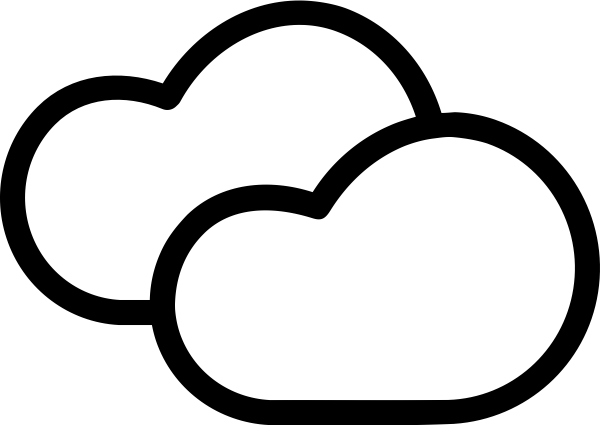
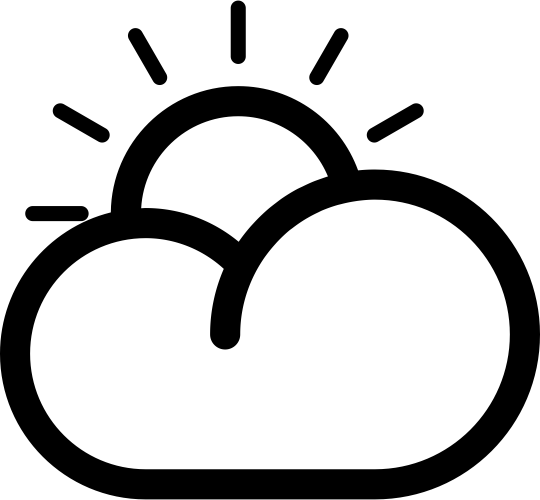
clock working

Changed region(s): [[0.0, 0.0, 1.0, 1.0], [0.8593, 0.8871, 0.9185, 0.9482], [0.9481, 0.7953, 0.9778, 0.8565]]

diff --git a/main.py b/main.py
@@ -3,9 +3,8 @@
 from PyQt4 import QtCore, QtGui
 from PyQt4.QtCore import Qt
 import sys
-import pywapi
+import pyowm
 import datetime
-import math
 
 
 class ClockandWeather(QtGui.QWidget):
@@ -19,10 +18,12 @@ class ClockandWeather(QtGui.QWidget):
     global picWidth, picHeight, lastmin
     picWidth = 128
     picHeight = 128
+    lastmin = -1
 
     def __init__(self, parent=None):
         QtGui.QWidget.__init__(self)
         super(ClockandWeather, self).__init__(parent)
+
         # --------------------------------Clock Portion-----------------------------------------
         # Intitialze and set Frame that surrounds clock
         self.clockFrame = QtGui.QFrame(self)
@@ -39,38 +40,49 @@ class ClockandWeather(QtGui.QWidget):
         self.hourHand.setAlignment(QtCore.Qt.AlignCenter)
         self.minHand.setAlignment(QtCore.Qt.AlignCenter)
         self.secHand.setAlignment(QtCore.Qt.AlignCenter)
+        self.hourHand.setStyleSheet("background-color: transparent")
+        self.minHand.setStyleSheet("background-color: transparent")
+        self.secHand.setStyleSheet("background-color: transparent")
 
         # Initialize clock timer
         timer = QtCore.QTimer(self)
         timer.timeout.connect(self.tick)
         timer.start(1000)
 
+        # initialize pixmap
+        self.secPixMap = QtGui.QPixmap("")
+        self.minPixMap = QtGui.QPixmap("")
+        self.hourPixMap = QtGui.QPixmap("")
+
         # ------------------------------------------------Weather Portion----------------------------------------
-        self.pix = QtGui.QPixmap("")
-        self.pic = QtGui.QLabel(self)
-        self.temp = QtGui.QLabel(self)
-        self.hum = QtGui.QLabel(self)
-        self.initUI()
+        self.weatherFrame = QtGui.QFrame(self)
+        self.weatherFrame.move(500, 0)
+        self.weatherPixMap = QtGui.QPixmap("")
+        self.weatherIcon = QtGui.QLabel(self.weatherFrame)
+        self.temp = QtGui.QLabel(self.weatherFrame)
+        self.weatherDescrip = QtGui.QLabel(self.weatherFrame)
+        self.highLowFrame = QtGui.QFrame(self)
+        self.high = QtGui.QLabel(self.highLowFrame)
+        self.low = QtGui.QLabel(self.highLowFrame)
 
-    def initUI(self):
-        self.pic.move(90, 110)
-        self.pic.resize(picWidth, picHeight)
-        self.pic.setPixmap(self.pix)
+        # setting up grid layout fo weather frame
+        self.grid = QtGui.QGridLayout(self.weatherFrame)
+        self.grid.addWidget(self.weatherIcon, 0, 0)
+        self.grid.addWidget(self.temp, 0, 1, QtCore.Qt.AlignLeft)
+        self.grid.addWidget(self.weatherDescrip, 1, 0, QtCore.Qt.AlignCenter)
+        self.grid.addWidget(self.highLowFrame, 1, 1)
 
-        self.temp.move(250, 160)
-        self.temp.resize(150, 100)
-        self.temp.setStyleSheet("font-size:50px; font-color: #FFFFFF;")
-
-        self.hum.move(410, 160)
-        self.hum.resize(250, 100)
-        self.hum.setStyleSheet("font-size:50px;")
+        # setting up High, Low
+        self.highLowGrid = QtGui.QGridLayout(self.highLowFrame)
+        self.highLowGrid.addWidget(self.high, 0, 0, QtCore.Qt.AlignLeft)
+        self.highLowGrid.addWidget(self.low, 0, 1, QtCore.Qt.AlignRight)
 
         self.Src()
 
         # ---------Window settings --------------------------------
         self.setGeometry(300, 300, 750, 500)
-        self.setFixedSize(760, 520)
-        self.setWindowFlags(Qt.FramelessWindowHint)
+        self.showFullScreen()
+        # self.setWindowFlags(Qt.FramelessWindowHint)
         self.setStyleSheet("background-color: ")
         self.show()
 
@@ -83,85 +95,106 @@ class ClockandWeather(QtGui.QWidget):
 
         # Rotate from initial image to avoid cumulative deformation from
         # transformation
+        # --------second hand
         self.secPixMap = QtGui.QPixmap("icons/clockFaceGrid.png")
         self.secPixMap = self.secPixMap.scaled(float(self.clockFrame.width()) * 0.6,
                                                float(self.clockFrame.height()) * 0.6, Qt.KeepAspectRatio)
         secHandDim = (self.secPixMap.width() ** 2 + self.secPixMap.height() ** 2) ** 0.5
-        self.secHand.setGeometry(self.clockFrame.width() / 2 - secHandDim / 2, self.clockFrame.height() / 2 - secHandDim / 2, secHandDim,
+        self.secHand.setGeometry(self.clockFrame.width() / 2 - secHandDim / 2,
+                                 self.clockFrame.height() / 2 - secHandDim / 2, secHandDim,
                                  secHandDim)
         self.angle = now.second * 6
         transform = QtGui.QTransform().rotate(self.angle)
         self.secPixMap = self.secPixMap.transformed(transform, QtCore.Qt.SmoothTransformation)
 
         # ---- update label ----
-
         self.secHand.setPixmap(self.secPixMap)
 
+        if now.minute != lastmin:
+            lastmin = now.minute
+            # -------minute hand
+            self.minPixMap = QtGui.QPixmap("icons/minHand.png")
+            self.minPixMap = self.minPixMap.scaled(float(self.clockFrame.width()) * 0.6,
+                                                   float(self.clockFrame.height()) * 0.6, Qt.KeepAspectRatio)
+            minHandDim = (self.minPixMap.width() ** 2 + self.minPixMap.height() ** 2) ** 0.5
+            self.minHand.setGeometry(self.clockFrame.width() / 2 - minHandDim / 2,
+                                     self.clockFrame.height() / 2 - minHandDim / 2, minHandDim,
+                                     minHandDim)
+            self.angle = now.minute * 6
+            transform = QtGui.QTransform().rotate(self.angle)
+            self.minPixMap = self.minPixMap.transformed(transform, QtCore.Qt.SmoothTransformation)
+            self.minHand.setPixmap(self.minPixMap)
 
-
-        # self.clockFrame.show()
+            # ---------hour hand
+            self.hourPixMap = QtGui.QPixmap("icons/hourHand.png")
+            self.hourPixMap = self.hourPixMap.scaled(float(self.clockFrame.width()) * 0.6,
+                                                     float(self.clockFrame.height()) * 0.6, Qt.KeepAspectRatio)
+            hourHandDim = (self.hourPixMap.width() ** 2 + self.hourPixMap.height() ** 2) ** 0.5
+            self.hourHand.setGeometry(self.clockFrame.width() / 2 - hourHandDim / 2,
+                                      self.clockFrame.height() / 2 - hourHandDim / 2, hourHandDim,
+                                      hourHandDim)
+            self.angle = ((now.hour % 12) + now.minute / 60.0) * 30.0
+            transform = QtGui.QTransform().rotate(self.angle)
+            self.hourPixMap = self.hourPixMap.transformed(transform, QtCore.Qt.SmoothTransformation)
+            self.hourHand.setPixmap(self.hourPixMap)
 
     ##Weather
     def Src(self):
-        global text
-        global temp
-        global hum
+        global descrip
+        global tempDict
 
-        location_id = "CAXX0518"  # vancouver ID
+        descrip = "Fair"
 
-        weather_com_result = pywapi.get_weather_from_weather_com(location_id)
-        print(weather_com_result['current_conditions']['text'],
-              weather_com_result['current_conditions']['temperature'] + "°",
-              weather_com_result['current_conditions']['last_updated'],
-              weather_com_result["current_conditions"]["humidity"])
-
-        text = weather_com_result['current_conditions']['text']
-        temp = weather_com_result['current_conditions']['temperature'] + "°C"
-        hum = "☂ " + weather_com_result['current_conditions']['humidity'] + "%"
+        owm = pyowm.OWM('03a8ab2b5c706e0321e66420998f0141')
+        observation = owm.weather_at_place('Vancouver,BC')
+        w = observation.get_weather()
+        tempDict = w.get_temperature('celsius')
+        descrip = w.get_status()
 
         self.Forecast()
 
     def Forecast(self):
-        global text
+        global descrip
         global temp
         global hum
 
-        self.temp.setText(temp)
-        self.hum.setText(hum)
+        self.temp.setText(str(int(tempDict['temp'])))
+        self.high.setText(str(int(tempDict['temp_max'])))
+        self.low.setText(str(int(tempDict['temp_min'])))
+        self.weatherDescrip.setText(descrip)
 
-        self.pic.show()
+        self.weatherIcon.show()
         self.temp.show()
-        self.hum.show()
 
-        if text == "Partly Cloudy" or text == "Fair" or text == "AM Clouds / PM Sun":
-            self.pix = QtGui.QPixmap("icons/partly.png")
-            self.pix = self.pix.scaled(picWidth, picHeight)
-            self.pic.setPixmap(self.pix)
+        if "cloud" in descrip.lower():
+            self.weatherPixMap = QtGui.QPixmap("icons/cloudy.png")
+            self.weatherPixMap = self.weatherPixMap.scaled(picWidth, picHeight)
+            self.weatherIcon.setPixmap(self.weatherPixMap)
 
-        elif text == "Cloudy" or text == "Mostly Cloudy":
-            self.pix = QtGui.QPixmap("icons/cloudy.png")
-            self.pix = self.pix.scaled(picWidth, picHeight)
-            self.pic.setPixmap(self.pix)
+        elif "snow" in descrip.lower():
+            self.weatherPixMap = QtGui.QPixmap("icons/sunny.png")
+            self.weatherPixMap = self.weatherPixMap.scaled(picWidth, picHeight)
+            self.weatherIcon.setPixmap(self.weatherPixMap)
 
-        elif text == "Sunny" or text == "Mostly Sunny":
-            self.pix = QtGui.QPixmap("icons/sunny.png")
-            self.pix = self.pix.scaled(picWidth, picHeight)
-            self.pic.setPixmap(self.pix)
+        elif "rain" in descrip.lower():
+            self.weatherPixMap = QtGui.QPixmap("icons/rainy.png")
+            self.weatherPixMap = self.weatherPixMap.scaled(picWidth, picHeight)
+            self.weatherIcon.setPixmap(self.weatherPixMap)
 
-        elif text == "Showers Early" or text == "Showers" or text == "AM Showers" or text == "Few Showers" or text == "Scattered Showers" or text == "Light Rain Shower":
-            self.pix = QtGui.QPixmap("icons/rainy.png")
-            self.pix = self.pix.scaled(picWidth, picHeight)
-            self.pic.setPixmap(self.pix)
+        elif "clear" in descrip.lower():
+            self.weatherPixMap = QtGui.QPixmap("icons/clear.png")
+            self.weatherPixMap = self.weatherPixMap.scaled(picWidth, picHeight)
+            self.weatherIcon.setPixmap(self.weatherPixMap)
 
-        elif text == "Clear" or text == "Mostly Clear":
-            self.pix = QtGui.QPixmap("icons/clear.png")
-            self.pix = self.pix.scaled(picWidth, picHeight)
-            self.pic.setPixmap(self.pix)
+        elif "storm" in descrip.lower():
+            self.weatherPixMap = QtGui.QPixmap("icons/stormy.png")
+            self.weatherPixMap = self.weatherPixMap.scaled(picWidth, picHeight)
+            self.weatherIcon.setPixmap(self.weatherPixMap)
 
-        elif text == "Isolated T-Storms" or text == "PM T-Storms" or text == "Scattered T-Storms":
-            self.pix = QtGui.QPixmap("icons/stormy.png")
-            self.pix = self.pix.scaled(picWidth, picHeight)
-            self.pic.setPixmap(self.pix)
+        elif "mist" in descrip.lower():
+            self.weatherPixMap = QtGui.QPixmap("icons/misty.png")
+            self.weatherPixMap = self.weatherPixMap.scaled(picWidth, picHeight)
+            self.weatherIcon.setPixmap(self.weatherPixMap)
 
 
 if __name__ == "__main__":

diff --git a/weatherScrap.py b/weatherScrap.py
@@ -1,0 +1,27 @@
+import pyowm
+
+owm = pyowm.OWM('03a8ab2b5c706e0321e66420998f0141')  # You MUST provide a valid API key
+
+# You have a pro subscription? Use:
+# owm = pyowm.OWM(API_key='your-API-key', subscription_type='pro')
+
+# Will it be sunny tomorrow at this time in Milan (Italy) ?
+forecast = owm.daily_forecast("Milan,it")
+tomorrow = pyowm.timeutils.tomorrow()
+forecast.will_be_sunny_at(tomorrow)  # Always True in Italy, right? ;-)
+
+# Search for current weather in London (UK)
+observation = owm.weather_at_place('London,uk')
+w = observation.get_weather()
+print(w)                      # <Weather - reference time=2013-12-18 09:20, 
+                              # status=Clouds>
+
+# Weather details
+w.get_wind()                  # {'speed': 4.6, 'deg': 330}
+w.get_humidity()              # 87
+w.get_temperature('celsius')  # {'temp_max': 10.5, 'temp': 9.7, 'temp_min': 9.0}
+
+
+# Search current weather observations in the surroundings of 
+# lat=22.57W, lon=43.12S (Rio de Janeiro, BR)
+observation_list = owm.weather_around_coords(-22.57, -43.12)
